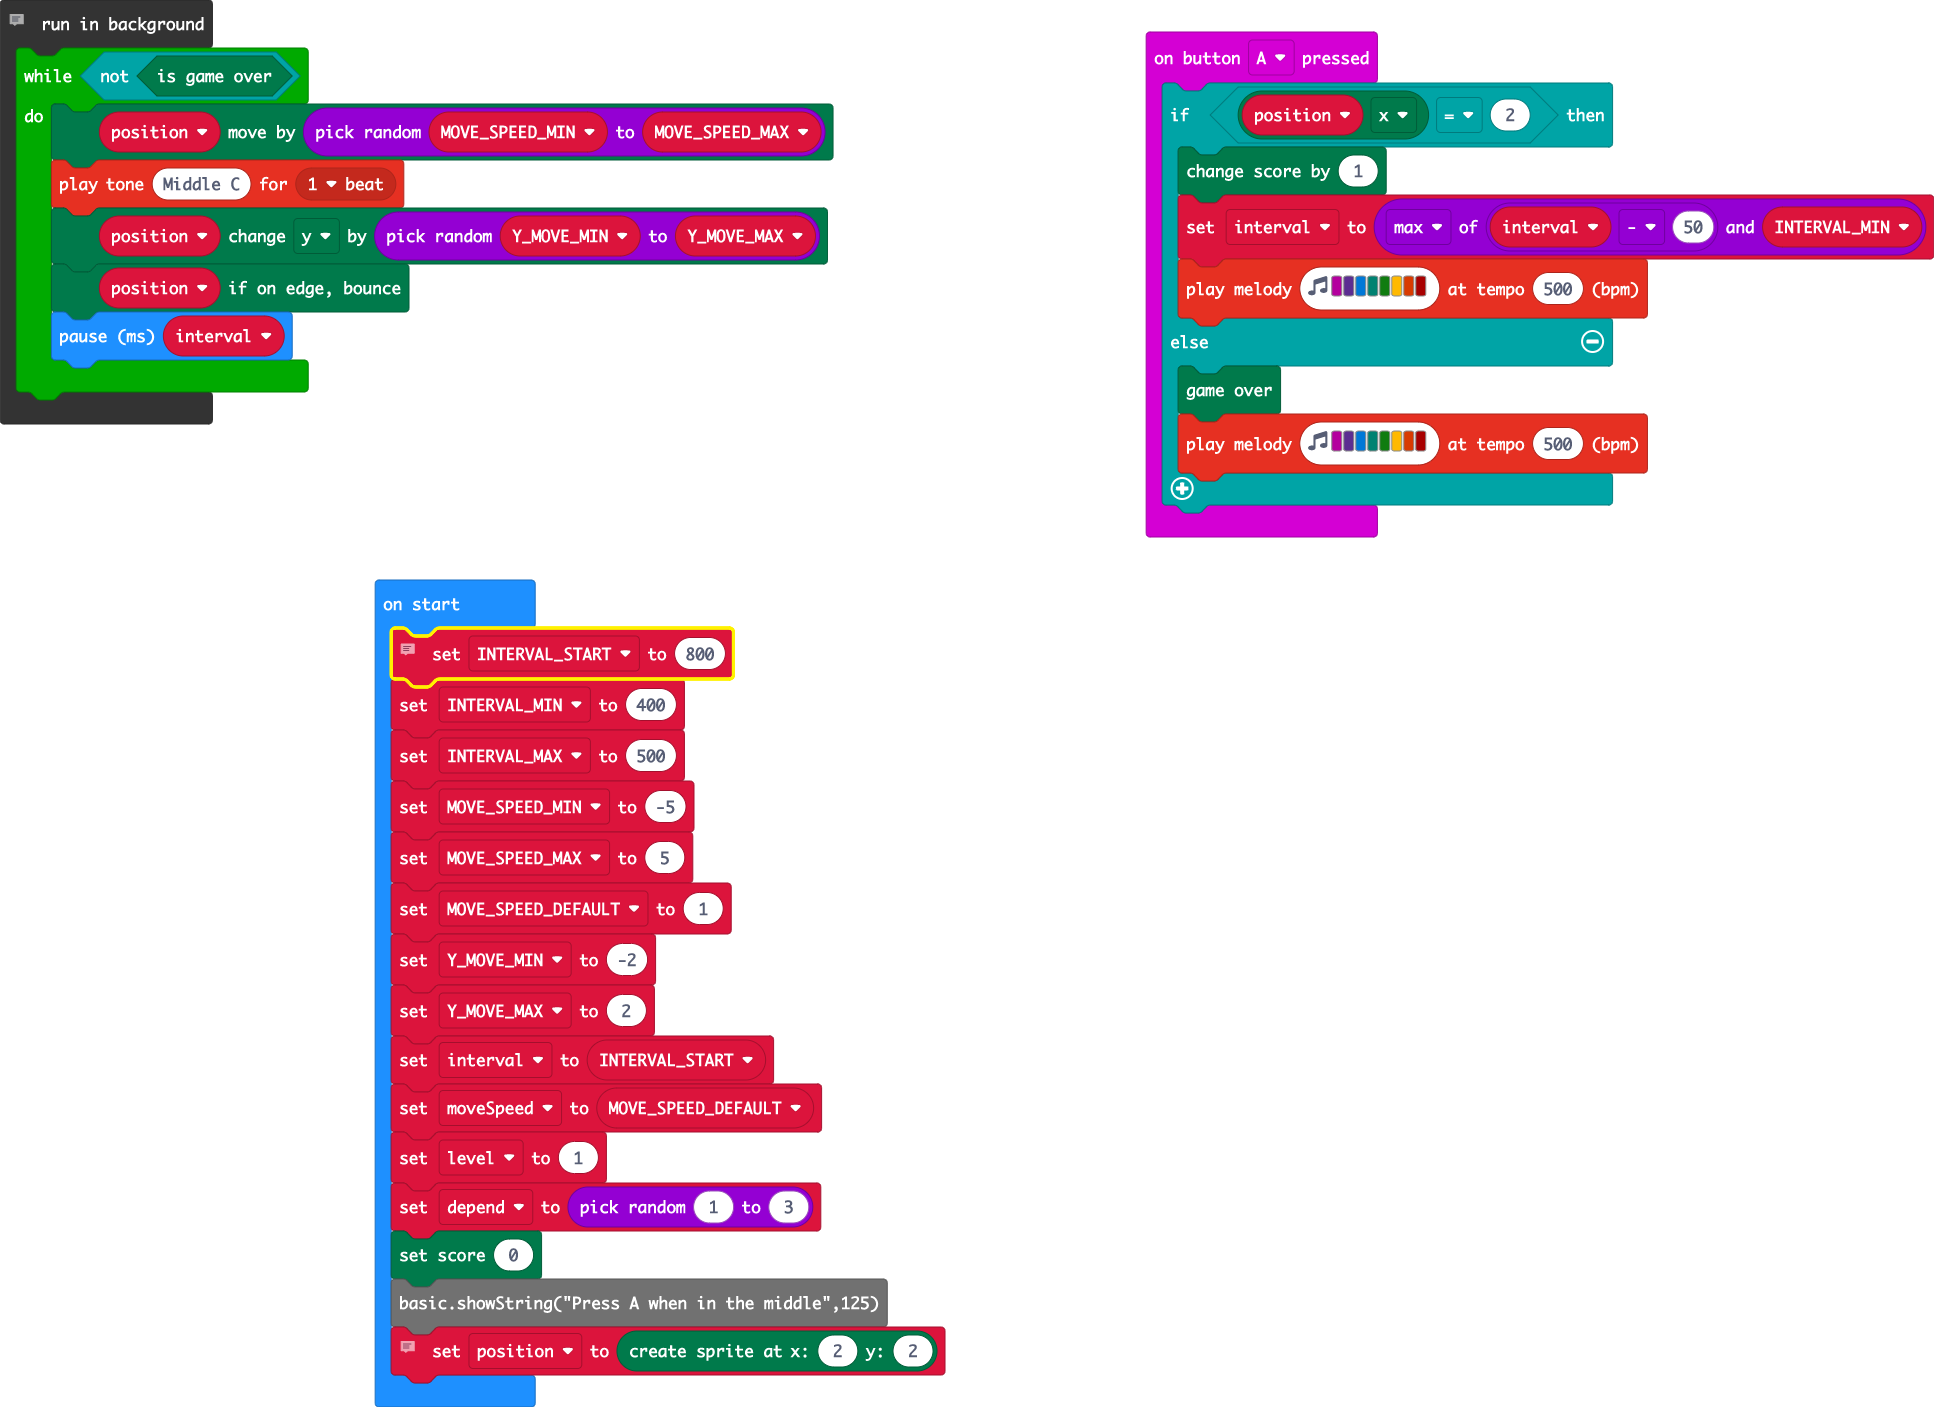
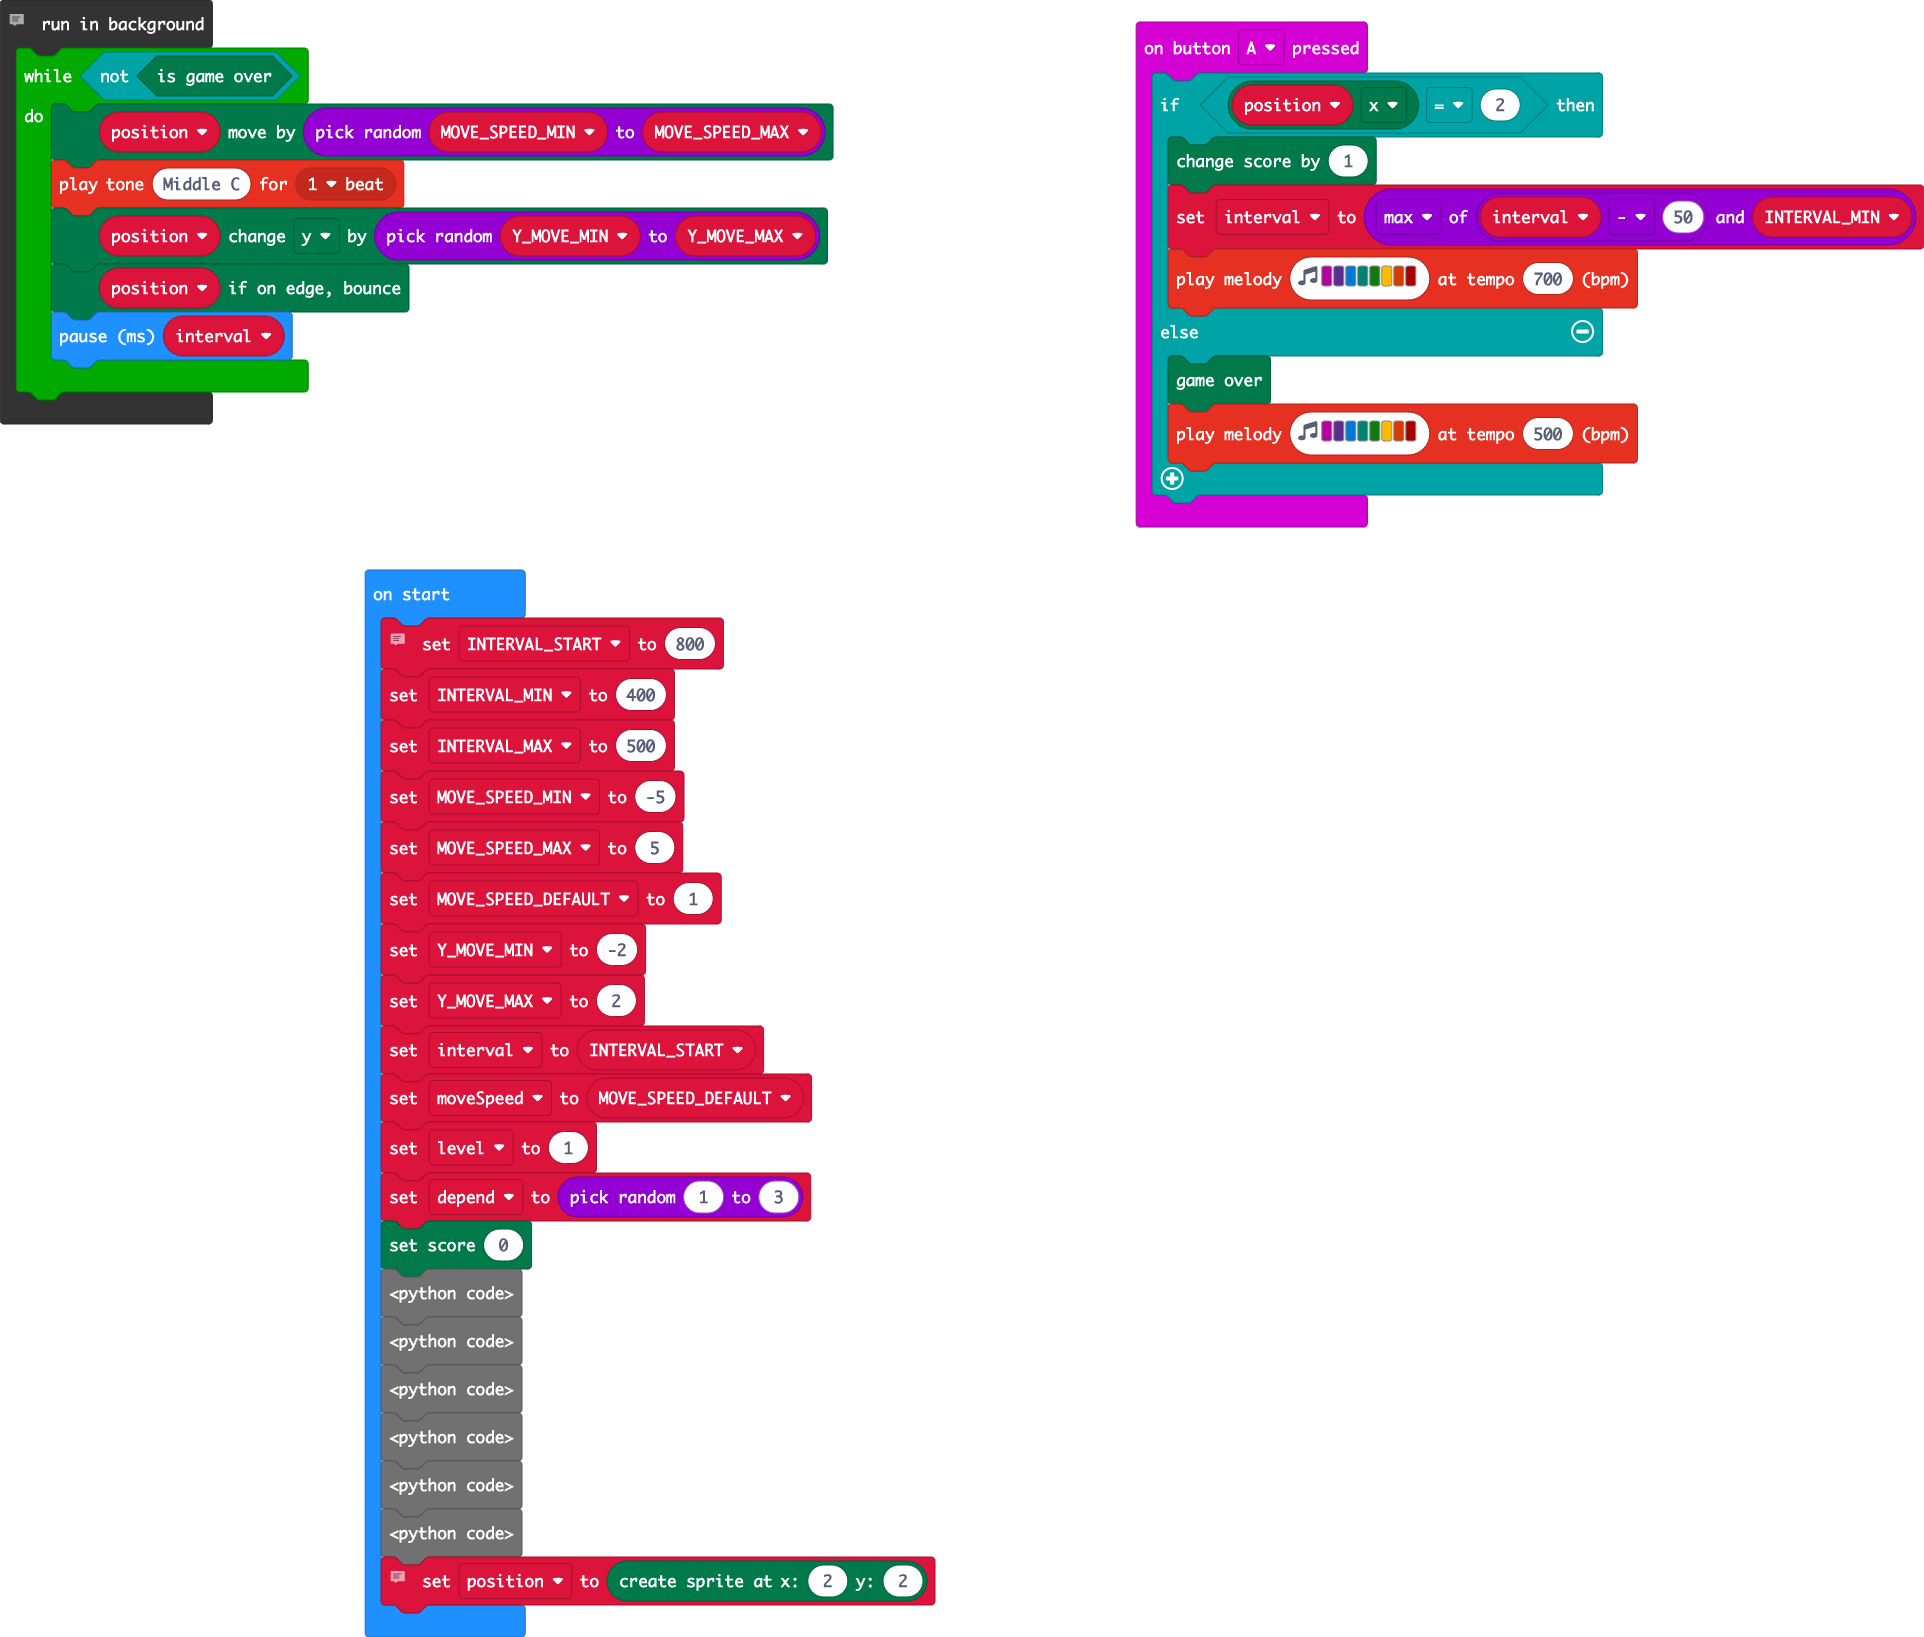
Update pxt.json, main.blocks, main.ts, main.py

Changed region(s): [[0.1871, 0.3362, 0.499, 1.0], [0.5925, 0.0, 1.0, 0.3973], [0.0, 0.0, 0.4366, 0.3056]]

diff --git a/main.ts b/main.ts
@@ -2,7 +2,7 @@ input.onButtonPressed(Button.A, function () {
     if (position.get(LedSpriteProperty.X) == 2) {
         game.addScore(1)
         interval = Math.max(interval - 50, INTERVAL_MIN)
-        music.playMelody("C D E F G A B C5 ", 500)
+        music.playMelody("C D E F G A B C5 ", 700)
     } else {
         game.gameOver()
         music.playMelody("C D E F G A B C5 ", 500)
@@ -25,7 +25,12 @@ let moveSpeed = MOVE_SPEED_DEFAULT
 let level = 1
 let depend = randint(1, 3)
 game.setScore(0)
-basic.showString("Press A when in the middle",125)
+basic.showString(" Press ", 100)
+basic.showString(" A ", 100)
+basic.showString(" when ", 100)
+basic.showString(" in ", 100)
+basic.showString(" the ", 100)
+basic.showString(" middle ", 100)
 // Create the initial sprite
 position = game.createSprite(2, 2)
 // Move the sprite in the background

diff --git a/main.py b/main.py
@@ -1,59 +1,46 @@
-input.onButtonPressed(Button.A, function () {
-    if (target.get(LedSpriteProperty.X) == 2) {
-        score += 1
-        music.playTone(262, music.beat(BeatFraction.Half))
-        if (score % 5 == 0) {
-            level += 1
-            interval += 0 - 50
-            targetSpeed += 0 - 50
-        }
-    } else {
-        game.gameOver()
-        music.playTone(131, music.beat(BeatFraction.Half))
-    }
-})
-function resetTarget () {
-    target = game.createSprite(randint(0, 4), randint(0, 4))
-    targetSpeed = 500 - level * 50
-    targetBehavior = randint(1, 3)
-    pause(5000)
-target.set(LedSpriteProperty.X, 2)
-}
-function updateTarget () {
-    switch (targetBehavior) {
-        case 1:
-            target.move(1)
-            break
-        case 2:
-            target.move(-1)
-            break
-        case 3:
-            target.move(1)
-            break
-        case 4:
-            target.move(-1)
-            break
-    }
-target.ifOnEdgeBounce()
-}
-let score = 0
-let targetBehavior = 0
-let targetSpeed = 0
-let level = 0
-let target: game.LedSprite = null
+def on_button_pressed_a():
+    global interval
+    if position.get(LedSpriteProperty.X) == 2:
+        game.add_score(1)
+        interval = max(interval - 50, INTERVAL_MIN)
+        music.play_melody("C D E F G A B C5 ", 700)
+    else:
+        game.game_over()
+        music.play_melody("C D E F G A B C5 ", 500)
+input.on_button_pressed(Button.A, on_button_pressed_a)
+
+position: game.LedSprite = None
+interval = 0
+INTERVAL_MIN = 0
+# Define constants
+INTERVAL_START = 800
+INTERVAL_MIN = 400
+INTERVAL_MAX = 500
+MOVE_SPEED_MIN = -5
+MOVE_SPEED_MAX = 5
+MOVE_SPEED_DEFAULT = 1
+Y_MOVE_MIN = -2
+Y_MOVE_MAX = 2
+interval = INTERVAL_START
+moveSpeed = MOVE_SPEED_DEFAULT
 level = 1
-let interval = 500
-targetSpeed = 500
-targetBehavior = 1
-resetTarget()
-basic.forever(function () {
-    updateTarget()
-    if (target.get(LedSpriteProperty.X) != 2) {
-        targetSpeed = 500 - level * 50
-        targetBehavior = randint(1, 3)
-    }
-    basic.pause(targetSpeed)
-    if (target.get(LedSpriteProperty.X) == 2) {
-        resetTarget()
-    }
-})
+depend = randint(1, 3)
+game.set_score(0)
+basic.show_string(" Press ", 100)
+basic.show_string(" A ", 100)
+basic.show_string(" when ", 100)
+basic.show_string(" in ", 100)
+basic.show_string(" the ", 100)
+basic.show_string(" middle ", 100)
+# Create the initial sprite
+position = game.create_sprite(2, 2)
+# Move the sprite in the background
+
+def on_in_background():
+    while not (game.is_game_over()):
+        position.move(randint(MOVE_SPEED_MIN, MOVE_SPEED_MAX))
+        music.play_tone(262, music.beat(BeatFraction.WHOLE))
+        position.change(LedSpriteProperty.Y, randint(Y_MOVE_MIN, Y_MOVE_MAX))
+        position.if_on_edge_bounce()
+        basic.pause(interval)
+control.in_background(on_in_background)
